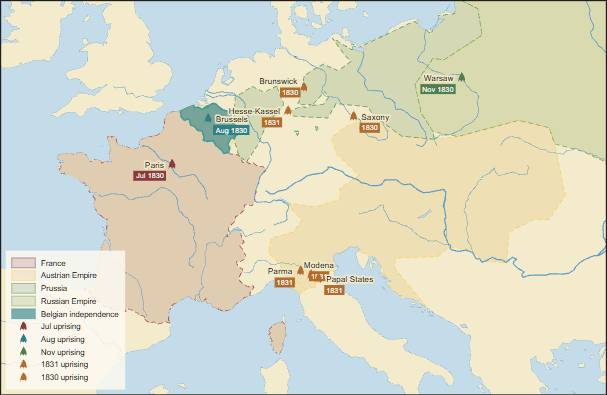
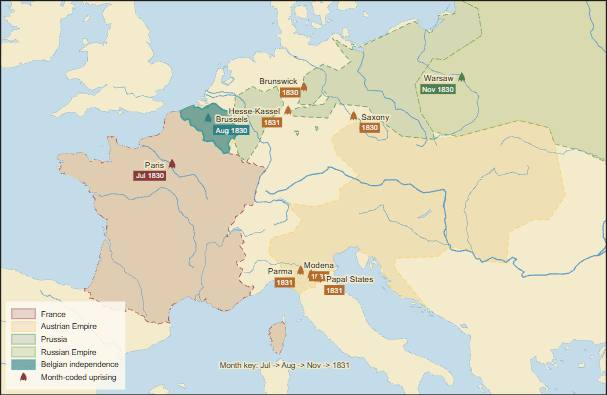
Refine restoration Americas plates
Use historical-basemap geometry for the Americas fixes and clean up the revolutions month key.

Copilot-Session: 37f2f47f-8b63-49cd-b8ce-cded564ac449

Changed region(s): [[0.0, 0.6076, 0.2076, 0.9722], [0.3558, 0.9114, 0.5931, 0.9418]]

diff --git a/atlas/plates/british-north-america-rebellions-responsible-government-1837-1848.js b/atlas/plates/british-north-america-rebellions-responsible-government-1837-1848.js
@@ -1,21 +1,17 @@
 (function(){
  const CAN="#b22d2d", BRIT="#2f5f93", HBC="#9a855f", REFORM="#b36b2e", USA="#2f7f86", ROAD="#5b4a3f";
- const upper=[[-83.2,41.8],[-82.0,44.0],[-79.0,44.2],[-76.2,45.2],[-75.3,44.2],[-79.0,43.0],[-83.2,41.8]];
- const lower=[[-75.3,44.7],[-73.8,46.0],[-70.8,47.4],[-67.2,48.1],[-65.8,47.2],[-70.8,45.7],[-74.4,45.0],[-75.3,44.7]];
- const hbc=[[-90,49],[-84,50],[-78,51.5],[-70,52],[-60,52],[-58,50],[-66,48.3],[-75,47.5],[-84,45.8],[-90,46.0],[-90,49]];
  window.PLATES["british-north-america-rebellions-responsible-government-1837-1848"]={id:"british-north-america-rebellions-responsible-government-1837-1848",title:"British North America: rebellions and responsible government, 1837-1848",head:"Restoration / Canada",folio:"synthesis with pp. 42-61",viewer:"restoration/1839/ch-bna-rebellions-responsible",figures:[{caption:"Rebellion, union and responsible government in British North America",share:0.68,extent:[[-86,41],[-51,53]],projection:"conic",layers:[
- {id:"hbc",type:"area",polygon:hbc,colour:HBC,tier:"influence",legend:"Rupert's Land / Hudson's Bay Company",clipToLand:true},
- {id:"upper",type:"area",polygon:upper,colour:CAN,tier:"core",legend:"Upper Canada: southern lake strip",clipToLand:true},
- {id:"lower",type:"area",polygon:lower,colour:CAN,tier:"core",legend:"Lower Canada: St Lawrence strip",clipToLand:true},
+ {id:"canada",type:"area",hist:{year:1815,names:["Canada"]},colour:CAN,tier:"core",legend:"Canada: Upper and Lower Canada"},
+ {id:"hbc",type:"area",hist:{year:1800,names:["Rupert's Land"]},colour:HBC,tier:"core",opacity:0.78,legend:"Rupert's Land / Hudson's Bay Company"},
  {id:"maritimes",type:"area",regions:["CA-NS","CA-NB","CA-PE","CA-NL"],colour:BRIT,tier:"core",legend:"Maritime colonies and Newfoundland"},
  {id:"us-border",type:"area",regions:["US-ME","US-VT","US-NY","US-MI","US-OH"],colour:USA,tier:"influence",legend:"United States border pressure"},
- {id:"rideau",type:"route",style:"road",colour:BRIT,weight:2.4,legend:"Rideau Canal, opened 1832",path:[[-75.69,45.42],[-76.0,44.8],[-76.49,44.23]]},
+ {id:"rideau",type:"route",style:"road",colour:BRIT,weight:2.4,legend:"Rideau Canal, opened 1832",path:[[-76.49,44.23],[-76.0,44.8],[-75.69,45.42]]},
  {id:"lower-rebellion",type:"area",pattern:"hatch",colour:REFORM,legend:"Lower Canada Patriote districts",polygon:[[-74.5,45.1],[-73.0,45.9],[-71.5,46.6],[-70.8,46.0],[-72.6,45.2],[-74.5,45.1]],clipToLand:true},
  {id:"upper-rebellion",type:"area",pattern:"hatch",colour:REFORM,legend:"Upper Canada reform rising",polygon:[[-80.2,43.3],[-79.1,44.2],[-78.2,43.8],[-79.0,43.2],[-80.2,43.3]],clipToLand:true},
  {id:"irish",type:"route",style:"dotted",geo:true,weight:2.1,colour:ROAD,legend:"Irish famine migration to Grosse Ile, 1847",path:[[-6.26,53.35],[-40,50],[-70.67,47.02]]},
- {id:"oregon-note",type:"label",at:[-74.5,52.0],text:"Oregon Treaty: far western 49th parallel, 1846",size:9,colour:ROAD},
- {id:"bytown",type:"point",symbol:"port",at:[-75.69,45.42],name:"Bytown",labelPos:"w"}, {id:"kingston",type:"point",symbol:"port",at:[-76.49,44.23],name:"Kingston",labelPos:"w"},
- {id:"toronto",type:"point",symbol:"insurrection",at:[-79.38,43.65],name:"Toronto",labelPos:"w",tag:{text:"1837",colour:"#f1c75b"}}, {id:"montreal",type:"point",symbol:"insurrection",at:[-73.56,45.50],name:"Montreal",labelPos:"w",tag:{text:"1837",colour:"#f1c75b"}}, {id:"durham",type:"point",symbol:"treaty",at:[-71.55,46.55],name:"Durham Report",labelPos:"w",tag:{text:"1839",colour:"#f1c75b"}}, {id:"union",type:"point",symbol:"parliament",at:[-76.85,44.05],name:"Union",labelPos:"s",tag:{text:"1841",colour:"#f1c75b"}}, {id:"halifax",type:"point",symbol:"parliament",at:[-63.58,44.65],name:"Nova Scotia",labelPos:"e",tag:{text:"1848",colour:"#f1c75b"}}, {id:"lafontaine",type:"point",symbol:"parliament",at:[-72.55,45.15],name:"LaFontaine-Baldwin",labelPos:"e",tag:{text:"1848",colour:"#f1c75b"}}, {id:"grosse",type:"point",symbol:"port",at:[-70.67,47.02],name:"Grosse Ile",labelPos:"n",tag:{text:"1847",colour:"#e8806a"}}
-],legend:{position:"bottom-left",columns:1}},{caption:"From colonial executive to responsible ministry",kind:"diagram",share:0.32,diagram:{height:0.58,compartments:[{id:"old",label:"Before 1837",x:0.06,y:0.06,w:0.40,h:0.60,colour:BRIT,fill:"#eee8d5"},{id:"new",label:"Responsible government",x:0.54,y:0.06,w:0.40,h:0.60,colour:REFORM,fill:"#f3e4be"}],nodes:[{id:"governor",label:"governor and council",x:0.26,y:0.28,w:0.26,h:0.12,colour:BRIT,strong:true},{id:"assembly",label:"elected assembly",x:0.26,y:0.52,w:0.24,h:0.12,colour:REFORM},{id:"ministry",label:"ministry",x:0.74,y:0.28,w:0.20,h:0.12,colour:REFORM,strong:true},{id:"assembly2",label:"assembly confidence",x:0.74,y:0.52,w:0.28,h:0.12,colour:REFORM}],arrows:[{id:"deadlock",from:"assembly",to:"governor",label:"deadlock"},{id:"responsible",from:"ministry",to:"assembly2",label:"responsible to"}]}}],text:{intro:"The Penguin Atlas pages are European, but British North America belongs in this round because the same reform crisis reaches the colonies. This plate synthesizes the book's Restoration-and-revolution frame with standard Canadian history.",sections:[{heading:"Map",entries:[{date:"1826-1832",text:"The Rideau Canal gives British North America an inland military route from Bytown to Kingston, while most of the north remains Hudson's Bay Company country.",refs:["hbc","upper","lower","rideau","bytown","kingston"]},{date:"1837-1841",text:"Rebellion in Upper and Lower Canada leads to Durham's report and the Act of Union, with Kingston as the first Union capital.",refs:["lower-rebellion","upper-rebellion","toronto","montreal","durham","union"]},{date:"1846-1848",text:"The Oregon Treaty is a far-western settlement; in the east, Irish famine migration and responsible government in Nova Scotia and the Province of Canada close the round.",refs:["oregon-note","maritimes","us-border","irish","grosse","halifax","lafontaine"]}]},{heading:"Government",entries:[{date:"1839-1848",text:"The core shift is from executive government above the assembly to a ministry that survives by assembly confidence.",refs:["old","new","governor","assembly","ministry","assembly2","deadlock","responsible"]}]}]},sources:["Penguin Atlas Vol. 2 pp. 40-61 for the Restoration-and-revolution frame", "Canadian synthesis from standard histories of the Rebellions, Durham Report, Act of Union and responsible government"]};
+ {id:"bytown",type:"point",symbol:"port",at:[-75.69,45.42],name:"Bytown",labelPos:"n"}, {id:"kingston",type:"point",symbol:"port",at:[-76.49,44.23],name:"Kingston",labelPos:"w"},
+ {id:"toronto",type:"point",symbol:"insurrection",at:[-79.38,43.65],name:"Toronto",labelPos:"w",tag:{text:"1837",colour:"#f1c75b"}}, {id:"montreal",type:"point",symbol:"insurrection",at:[-73.56,45.50],name:"Montreal",labelPos:"w",tag:{text:"1837",colour:"#f1c75b"}}, {id:"durham",type:"point",symbol:"treaty",at:[-71.55,46.55],name:"Durham Report",labelPos:"w",tag:{text:"1839",colour:"#f1c75b"}}, {id:"union",type:"point",symbol:"parliament",at:[-77.15,43.85],name:"Union",labelPos:"s",tag:{text:"1841",colour:"#f1c75b"}}, {id:"halifax",type:"point",symbol:"parliament",at:[-63.58,44.65],name:"Nova Scotia",labelPos:"e",tag:{text:"1848",colour:"#f1c75b"}}, {id:"lafontaine",type:"point",symbol:"parliament",at:[-73.10,45.32],name:"LaFontaine-Baldwin",labelPos:"e",tag:{text:"1848",colour:"#f1c75b"}}, {id:"grosse",type:"point",symbol:"port",at:[-70.67,47.02],name:"Grosse Ile",labelPos:"n",tag:{text:"1847",colour:"#e8806a"}}
+],legend:{position:"bottom-left",columns:1}},{caption:"From colonial executive to responsible ministry",kind:"diagram",share:0.32,diagram:{height:0.58,compartments:[{id:"old",label:"Before 1837",x:0.06,y:0.06,w:0.40,h:0.60,colour:BRIT,fill:"#eee8d5"},{id:"new",label:"Responsible government",x:0.54,y:0.06,w:0.40,h:0.60,colour:REFORM,fill:"#f3e4be"}],nodes:[{id:"governor",label:"governor and council",x:0.26,y:0.28,w:0.26,h:0.12,colour:BRIT,strong:true},{id:"assembly",label:"elected assembly",x:0.26,y:0.52,w:0.24,h:0.12,colour:REFORM},{id:"ministry",label:"ministry",x:0.74,y:0.28,w:0.20,h:0.12,colour:REFORM,strong:true},{id:"assembly2",label:"assembly confidence",x:0.74,y:0.52,w:0.28,h:0.12,colour:REFORM}],arrows:[{id:"deadlock",from:"assembly",to:"governor",label:"deadlock"},{id:"responsible",from:"ministry",to:"assembly2",label:"responsible to"}]}}],text:{intro:"The Penguin Atlas pages are European, but British North America belongs in this round because the same reform crisis reaches the colonies. This plate synthesizes the book's Restoration-and-revolution frame with standard Canadian history.",sections:[{heading:"Map",entries:[{date:"1826-1832",text:"The Rideau Canal gives British North America an inland military route from Bytown to Kingston, while most of the north remains Hudson's Bay Company country.",refs:["hbc","canada","rideau","bytown","kingston"]},{date:"1837-1841",text:"Rebellion in Upper and Lower Canada leads to Durham's report and the Act of Union, with Kingston as the first Union capital.",refs:["lower-rebellion","upper-rebellion","toronto","montreal","durham","union"]},{date:"1846-1848",text:"The Oregon Treaty is a far-western settlement noted here but not mapped in this eastern frame; Irish famine migration and responsible government in Nova Scotia and the Province of Canada close the round.",refs:["maritimes","us-border","irish","grosse","halifax","lafontaine"]}]},{heading:"Government",entries:[{date:"1839-1848",text:"The core shift is from executive government above the assembly to a ministry that survives by assembly confidence.",refs:["old","new","governor","assembly","ministry","assembly2","deadlock","responsible"]}]}]},sources:["Penguin Atlas Vol. 2 pp. 40-61 for the Restoration-and-revolution frame", "Canadian synthesis from standard histories of the Rebellions, Durham Report, Act of Union and responsible government"]};
 })();
+
 

diff --git a/atlas/plates/latin-american-independence-1804-1830.js b/atlas/plates/latin-american-independence-1804-1830.js
@@ -2,17 +2,19 @@
  const SPA="#d8a84f", REP="#2f7f86", BRA="#b36b2e", WAR="#8c3b3b", HAITI="#6b6b6b", ROAD="#5b4a3f";
  const CAR=[-67.6,11.2], BOG=[-74.08,4.71], BOY=[-73.02,5.45], CARAB=[-68.0,10.1], QUITO=[-78.47,-0.18], PICH=[-78.58,-0.23], GUA=[-79.90,-2.19], LIMA=[-77.04,-12.05], AYA=[-74.13,-13.16], MENDO=[-68.85,-32.89], AND=[-70.1,-32.8], CHAC=[-70.68,-32.98], VALP=[-71.63,-33.05], PISCO=[-76.20,-13.71], MAI=[-70.77,-33.51], MEX=[-99.13,19.43], RIO=[-43.17,-22.91], PORT=[-72.34,18.54];
  const mexicoPoly=[[-124,42],[-111,42],[-102,37],[-95,31],[-90,21],[-83,16],[-88,14],[-94,16],[-100,19],[-107,23],[-115,29],[-124,32],[-124,42]];
- window.PLATES["latin-american-independence-1804-1830"]={id:"latin-american-independence-1804-1830",title:"Latin American independence, 1804-1830",head:"Restoration / Latin America",folio:"52-53",viewer:"restoration/1822/ch-latin-american-independence",figures:[{caption:"The breakup of Iberian America: campaigns and new states",share:1,extent:[[-125,-42],[-34,43]],projection:"mercator",layers:[
- {id:"spanish-america",type:"area",tier:"influence",colour:SPA,legend:"Spanish America before independence",hist:{year:1800,names:["Viceroyalty of New Spain","Viceroyalty of New Granada","Viceroyalty of Peru","United Provinces of the Río de la Plata"]}},
- {id:"haiti",type:"area",tier:"core",colour:HAITI,legend:"Haiti independent, 1804",polygon:[[-74.5,18.0],[-72.0,20.1],[-71.6,19.0],[-72.9,18.1],[-74.5,18.0]],clipToLand:true},
- {id:"mexico",type:"area",tier:"core",colour:REP,legend:"Mexico including the far north, 1821",polygon:mexicoPoly,clipToLand:true},
- {id:"central-america",type:"area",tier:"core",pattern:"hatch",colour:REP,legend:"Central America joins Mexico, then separates 1823",polygon:[[-92.5,17.8],[-88.0,18.6],[-83.5,15.0],[-84.8,9.0],[-88.8,11.0],[-91.5,14.5],[-92.5,17.8]],clipToLand:true},
- {id:"brazil",type:"area",tier:"core",colour:BRA,legend:"Brazil declares independence, 1822",regions:["BRA"]},
- {id:"gran-colombia",type:"area",tier:"conquest",pattern:"stripe",colour:REP,legend:"Bolivar and Sucre: Gran Colombia to Peru",regions:["COL","VEN","ECU","PER"]},
- {id:"rio-chile",type:"area",tier:"conquest",pattern:"stripe",colour:WAR,legend:"San Martin: Rio de la Plata, Chile, Peru",regions:["ARG","CHL","PER"]},
- {id:"bolivar-route",type:"route",style:"road",weight:2.7,colour:REP,legend:"Bolivar's llanos-Andes campaign",path:[CAR,[-70.5,7.0],BOY,BOG,CARAB,QUITO,PICH,GUA,LIMA,AYA]},
- {id:"san-martin-route",type:"route",style:"road",weight:2.7,colour:WAR,legend:"San Martin's Andes and sea campaign",path:[MENDO,AND,CHAC,MAI,VALP,PISCO,LIMA]},
+ window.PLATES["latin-american-independence-1804-1830"]={id:"latin-american-independence-1804-1830",title:"Latin American independence, 1804-1830",head:"Restoration / Latin America",folio:"52-53",viewer:"restoration/1822/ch-latin-american-independence",figures:[{caption:"The breakup of Iberian America: campaigns and new states",share:1,extent:[[-125,-42],[-34,42]],projection:"mercator",layers:[
+ {id:"new-spain",type:"area",tier:"core",colour:REP,legend:"Mexico from New Spain, 1821",hist:{year:1815,names:["Viceroyalty of New Spain"]}},
+ {id:"central-america",type:"area",tier:"core",pattern:"hatch",colour:SPA,legend:"Central America separates, 1823",polygon:[[-93.0,17.9],[-88.0,18.6],[-83.5,15.0],[-84.8,9.0],[-88.8,11.0],[-91.8,14.5],[-93.0,17.9]],clipToLand:true},
+ {id:"haiti",type:"area",tier:"core",colour:HAITI,legend:"Haiti independent, 1804",hist:{year:1815,names:["Haiti"]}},
+ {id:"brazil",type:"area",tier:"core",colour:BRA,legend:"Brazil declares independence, 1822",hist:{year:1815,names:["Viceroyalty of Brazil"]}},
+ {id:"new-granada",type:"area",tier:"conquest",pattern:"stripe",colour:REP,legend:"Bolivar and Sucre: New Granada to Peru",hist:{year:1815,names:["Viceroyalty of New Granada"]}},
+ {id:"peru",type:"area",tier:"conquest",pattern:"stripe",colour:REP,legend:"Peru campaign zone",hist:{year:1815,names:["Viceroyalty of Peru"]}},
+ {id:"rio-plata",type:"area",tier:"conquest",pattern:"stripe",colour:WAR,legend:"San Martin: Rio de la Plata and Chile",hist:{year:1815,names:["United Provinces of the Río de la Plata"]}},
+ {id:"chile",type:"area",tier:"conquest",pattern:"stripe",colour:WAR,legend:"Chile secured by San Martin",regions:["CHL"]},
+ {id:"bolivar-route",type:"route",style:"road",weight:2.7,colour:REP,legend:"Bolivar's llanos-Andes campaign",path:[[-63.55,8.12],[-68.5,7.2],[-70.5,7.0],BOY,BOG,CARAB,QUITO,PICH,GUA,LIMA,AYA]},
+ {id:"san-martin-land",type:"route",style:"road",weight:2.7,colour:WAR,legend:"San Martin land campaign",path:[MENDO,AND,CHAC,MAI,VALP]},
+ {id:"san-martin-sea",type:"route",style:"dotted",weight:2.4,colour:WAR,legend:"San Martin sea move to Peru",path:[VALP,[-74.0,-30.0],[-77.0,-18.0],PISCO,LIMA]},
  {id:"mex",type:"point",symbol:"capital",at:MEX,name:"Mexico",labelPos:"e",tag:{text:"1821",colour:"#f1c75b"}}, {id:"rio",type:"point",symbol:"capital",at:RIO,name:"Rio de Janeiro",labelPos:"w",tag:{text:"1822",colour:"#f1c75b"}}, {id:"port",type:"point",symbol:"capital",at:PORT,name:"Port-au-Prince",labelPos:"e",tag:{text:"1804",colour:"#f1c75b"}},
- {id:"caracas",type:"point",symbol:"insurrection",at:CAR,name:"Caracas",labelPos:"n",tag:{text:"1810",colour:"#f1c75b"}}, {id:"boyaca",type:"point",symbol:"battle",at:BOY,name:"Boyaca",labelPos:"w",tag:{text:"1819",colour:"#e8806a"}}, {id:"carabobo",type:"point",symbol:"battle",at:CARAB,name:"Carabobo",labelPos:"se",tag:{text:"1821",colour:"#e8806a"}}, {id:"pichincha",type:"point",symbol:"battle",at:PICH,name:"Pichincha",labelPos:"w",tag:{text:"1822",colour:"#e8806a"}}, {id:"guayaquil",type:"point",symbol:"conference",at:GUA,name:"Guayaquil",labelPos:"e",tag:{text:"1822",colour:"#f1c75b"}}, {id:"ayacucho",type:"point",symbol:"battle",at:AYA,name:"Ayacucho",labelPos:"e",tag:{text:"1824",colour:"#e8806a"}}, {id:"chacabuco",type:"point",symbol:"battle",at:CHAC,name:"Chacabuco",labelPos:"w",tag:{text:"1817",colour:"#e8806a"}}, {id:"maipu",type:"point",symbol:"battle",at:MAI,name:"Maipu",labelPos:"s",tag:{text:"1818",colour:"#e8806a"}}, {id:"lima",type:"point",symbol:"capital",at:LIMA,name:"Lima",labelPos:"e",tag:{text:"1821",colour:"#f1c75b"}}
-],legend:{position:"bottom-left",columns:1}}],text:{intro:"Latin American independence was not a single axis from north to south. It was a set of wars, juntas and royal collapses, with Bolivar and San Martin carrying two campaign systems that met at Guayaquil.",sections:[{heading:"Campaigns",entries:[{date:"1804-1824",text:"Haiti is already independent before the mainland wars; Bolivar crosses from the llanos over the Andes to Boyaca, wins Carabobo, and Sucre takes Pichincha before the Peruvian campaign ends at Ayacucho.",refs:["haiti","gran-colombia","bolivar-route","port","caracas","boyaca","carabobo","pichincha","guayaquil","ayacucho"]},{date:"1817-1821",text:"San Martin moves from Mendoza across the Andes to Chacabuco and Maipu, then sails from Valparaiso to Pisco and enters Lima.",refs:["rio-chile","san-martin-route","chacabuco","maipu","lima"]},{date:"1821-1823",text:"Mexico's independence includes the far north and briefly Central America. Brazil becomes independent as an empire under Pedro.",refs:["mexico","central-america","brazil","mex","rio"]}]}]},sources:["Penguin Atlas Vol. 2 pp. 52-53"]};
+ {id:"angostura",type:"point",symbol:"capital",at:[-63.55,8.12],name:"Angostura",labelPos:"e",tag:{text:"1819",colour:"#f1c75b"}}, {id:"caracas",type:"point",symbol:"insurrection",at:CAR,name:"Caracas",labelPos:"n",tag:{text:"1810",colour:"#f1c75b"}}, {id:"boyaca",type:"point",symbol:"battle",at:BOY,name:"Boyaca",labelPos:"w",tag:{text:"1819",colour:"#e8806a"}}, {id:"carabobo",type:"point",symbol:"battle",at:CARAB,name:"Carabobo",labelPos:"s",tag:{text:"1821",colour:"#e8806a"}}, {id:"pichincha",type:"point",symbol:"battle",at:PICH,name:"Pichincha",labelPos:"w",tag:{text:"1822",colour:"#e8806a"}}, {id:"guayaquil",type:"point",symbol:"conference",at:GUA,name:"Guayaquil",labelPos:"e",tag:{text:"1822",colour:"#f1c75b"}}, {id:"ayacucho",type:"point",symbol:"battle",at:AYA,name:"Ayacucho",labelPos:"e",tag:{text:"1824",colour:"#e8806a"}}, {id:"chacabuco",type:"point",symbol:"battle",at:CHAC,name:"Chacabuco",labelPos:"w",tag:{text:"1817",colour:"#e8806a"}}, {id:"maipu",type:"point",symbol:"battle",at:MAI,name:"Maipu",labelPos:"s",tag:{text:"1818",colour:"#e8806a"}}, {id:"pisco",type:"point",symbol:"port",at:PISCO,name:"Pisco",labelPos:"w",tag:{text:"1820",colour:"#f1c75b"}}, {id:"lima",type:"point",symbol:"capital",at:LIMA,name:"Lima",labelPos:"e",tag:{text:"1821",colour:"#f1c75b"}}
+],legend:{position:"bottom-left",columns:1}}],text:{intro:"Latin American independence was not a single axis from north to south. It was a set of wars, juntas and royal collapses, with Bolivar and San Martin carrying two campaign systems that met at Guayaquil.",sections:[{heading:"Campaigns",entries:[{date:"1804-1824",text:"Haiti is already independent before the mainland wars; Bolivar crosses from the llanos over the Andes to Boyaca, wins Carabobo, and Sucre takes Pichincha before the Peruvian campaign ends at Ayacucho.",refs:["haiti","new-granada","peru","bolivar-route","angostura","port","caracas","boyaca","carabobo","pichincha","guayaquil","ayacucho"]},{date:"1817-1821",text:"San Martin moves from Mendoza across the Andes to Chacabuco and Maipu, then sails from Valparaiso to Pisco and enters Lima.",refs:["rio-plata","chile","san-martin-land","san-martin-sea","pisco","chacabuco","maipu","lima"]},{date:"1821-1823",text:"Mexico's independence includes the far north and briefly Central America. Brazil becomes independent as an empire under Pedro.",refs:["new-spain","central-america","brazil","mex","rio"]}]}]},sources:["Penguin Atlas Vol. 2 pp. 52-53"]};
 })();

diff --git a/atlas/plates/revolutions-europe-1830-1848.js b/atlas/plates/revolutions-europe-1830-1848.js
@@ -7,19 +7,24 @@
   {id:`prussia-${s}`,type:"area",hist:{year:1815,names:["Prussia"]},colour:PRUS,tier:"influence",legend:"Prussia"},
   {id:`russia-${s}`,type:"area",hist:{year:1815,names:["Russian Empire"]},colour:RUS,tier:"influence",legend:"Russian Empire"}
  ];
- const pt=(id,at,name,date,colour,pos="e",sym="insurrection")=>({id,type:"point",symbol:sym,at,name,labelPos:pos,colour,tag:{text:date,colour},legend:date.split(" ")[0]+" uprising"});
+ const pt=(id,at,name,date,colour,pos="e",sym="insurrection")=>({id,type:"point",symbol:sym,at,name,labelPos:pos,colour,tag:{text:date,colour},legend:"Month-coded uprising"});
  window.PLATES["revolutions-europe-1830-1848"]={id:"revolutions-europe-1830-1848",title:"The revolutions of 1830 and 1848",head:"Restoration / Europe II-III",folio:"50-59",viewer:"restoration/1848/ch-revolutions-1830-1848",figures:[
   {caption:"The 1830 wave: July monarchy, Belgium, Poland and German-Italian risings",share:0.46,extent:[[-2,40],[23,55]],projection:"conic",layers:[...base("1830"),
    {id:"belgium",type:"area",regions:["BEL"],colour:BEL,tier:"core",legend:"Belgian independence"},
    pt("par1830",P.par,"Paris","Jul 1830",JUL,"w"),pt("bru1830",P.bru,"Brussels","Aug 1830",AUG,"e"),pt("war1830",P.war,"Warsaw","Nov 1830",NOV,"w"),
    pt("modena1831",P.mod,"Modena","1831",MAR,"n"),pt("parma1831",P.parma,"Parma","1831",MAR,"w"),pt("papal1831",P.bol,"Papal States","1831",MAR,"e"),
-   pt("brunswick1830",P.bruns,"Brunswick","1830",MAR,"nw"),pt("saxony1830",P.dres,"Saxony","1830",MAR,"e"),pt("hesse1831",P.kass,"Hesse-Kassel","1831",MAR,"w")
+   pt("brunswick1830",P.bruns,"Brunswick","1830",MAR,"nw"),pt("saxony1830",P.dres,"Saxony","1830",MAR,"e"),pt("hesse1831",P.kass,"Hesse-Kassel","1831",MAR,"w"),
+   {id:"month-key-1830",type:"label",style:"note",at:[9.5,41.0],text:"Month key: Jul -> Aug -> Nov -> 1831",size:8,colour:"#3a3a3a"}
   ],legend:{position:"bottom-left",columns:1}},
-  {caption:"The 1848-49 wave and the counter-revolution",share:0.54,extent:[[2,40],[25,55]],projection:"conic",layers:[...base("1848"),
+  {caption:"The 1848-49 wave and the counter-revolution",share:0.54,extent:[[2,37.5],[25,55]],projection:"conic",layers:[...base("1848"),
    pt("palermo1848",P.pal,"Palermo","Jan",JAN,"e"),pt("par1848",P.par,"Paris","Feb",FEB,"w"),pt("vien1848",P.vien,"Vienna","13 Mar",MAR,"e"),pt("mil1848",P.mil,"Milan","18-22 Mar",MAR,"w"),pt("ven1848",P.ven,"Venice","22 Mar",MAR,"e"),pt("ber1848",P.ber,"Berlin","18 Mar",MAR,"e"),pt("pest1848",P.pest,"Pest","Mar",MAR,"se"),pt("prag1848",P.prag,"Prague / Slav Congress","Jun",JUN,"e"),pt("frank1848",P.frank,"Frankfurt Parliament","May",MAY,"s","parliament"),pt("rome1849",P.rom,"Roman Republic","Feb 1849",FEB,"e"),pt("baden1849",P.baden,"Baden","1849",JUN,"w"),
-   {id:"radetzky",type:"arrow",path:[[12.33,45.44],P.cust,P.nov],colour:COUNTER,width:4,label:"Radetzky",date:"1848-49",legend:"Austrian counter-moves"},
+   {id:"radetzky",type:"arrow",path:[[12.33,45.44],P.cust,P.nov],colour:COUNTER,width:4,legend:"Austrian counter-moves"},
+   {id:"custoza",type:"point",symbol:"battle",at:P.cust,name:"Custoza",labelPos:"s",tag:{text:"Jul 1848",colour:COUNTER},legend:"Counter-revolution battles"},
+   {id:"novara",type:"point",symbol:"battle",at:[8.85,45.62],name:"Novara",labelPos:"e",tag:{text:"Mar 1849",colour:COUNTER},legend:"Counter-revolution battles"},
    {id:"windischgratz",type:"arrow",path:[[16.37,48.21],P.prag,[16.37,48.21]],colour:COUNTER,width:3.5,legend:"Austrian counter-moves"},
-   {id:"russian-hungary",type:"arrow",path:[P.lem,[21.0,48.2],P.deb],colour:RUS,width:4,label:"Russia",date:"1849",legend:"Russian intervention in Hungary"}
+   {id:"russian-hungary",type:"arrow",path:[P.lem,[21.0,48.2],P.deb],colour:RUS,width:4,label:"Russia",date:"1849",legend:"Russian intervention in Hungary"},
+   {id:"month-key-1848",type:"label",style:"note",at:[13.4,54.4],text:"Month key: Jan -> Feb -> Mar -> May -> Jun -> Jul -> Feb/Mar 1849",size:8,colour:"#3a3a3a"}
   ],legend:{position:"bottom-left",columns:1}}
  ],text:{intro:"The revolutions moved as dated waves, keyed by month-coloured points in the legend, then met coordinated counter-moves. The same language of constitution and nation meant different things in Paris, Milan, Vienna, Pest, Prague and Frankfurt.",sections:[{heading:"1830",entries:[{date:"1830-1831",text:"Paris in July is followed by Brussels in August, Warsaw in November, and constitutional risings in Modena, Parma, the Papal States and several German states.",refs:["par1830","bru1830","war1830","modena1831","parma1831","papal1831","brunswick1830","saxony1830","hesse1831","belgium"]}]},{heading:"1848-1849",entries:[{date:"1848",text:"Palermo, Paris and March risings in Vienna, Milan, Venice, Berlin and Pest turn revolution into a continental wave; Frankfurt tries to make a German constitution.",refs:["palermo1848","par1848","vien1848","mil1848","ven1848","ber1848","pest1848","frank1848"]},{date:"1848-1849",text:"Counter-revolution is military as well as political: Windischgratz retakes Prague and Vienna, Radetzky beats Piedmont at Custoza and Novara, and Russia marches into Hungary.",refs:["prag1848","rome1849","baden1849","radetzky","windischgratz","russian-hungary"]}]}]},sources:["Penguin Atlas Vol. 2 pp. 50-51 and 56-59"]};
 })();
+
